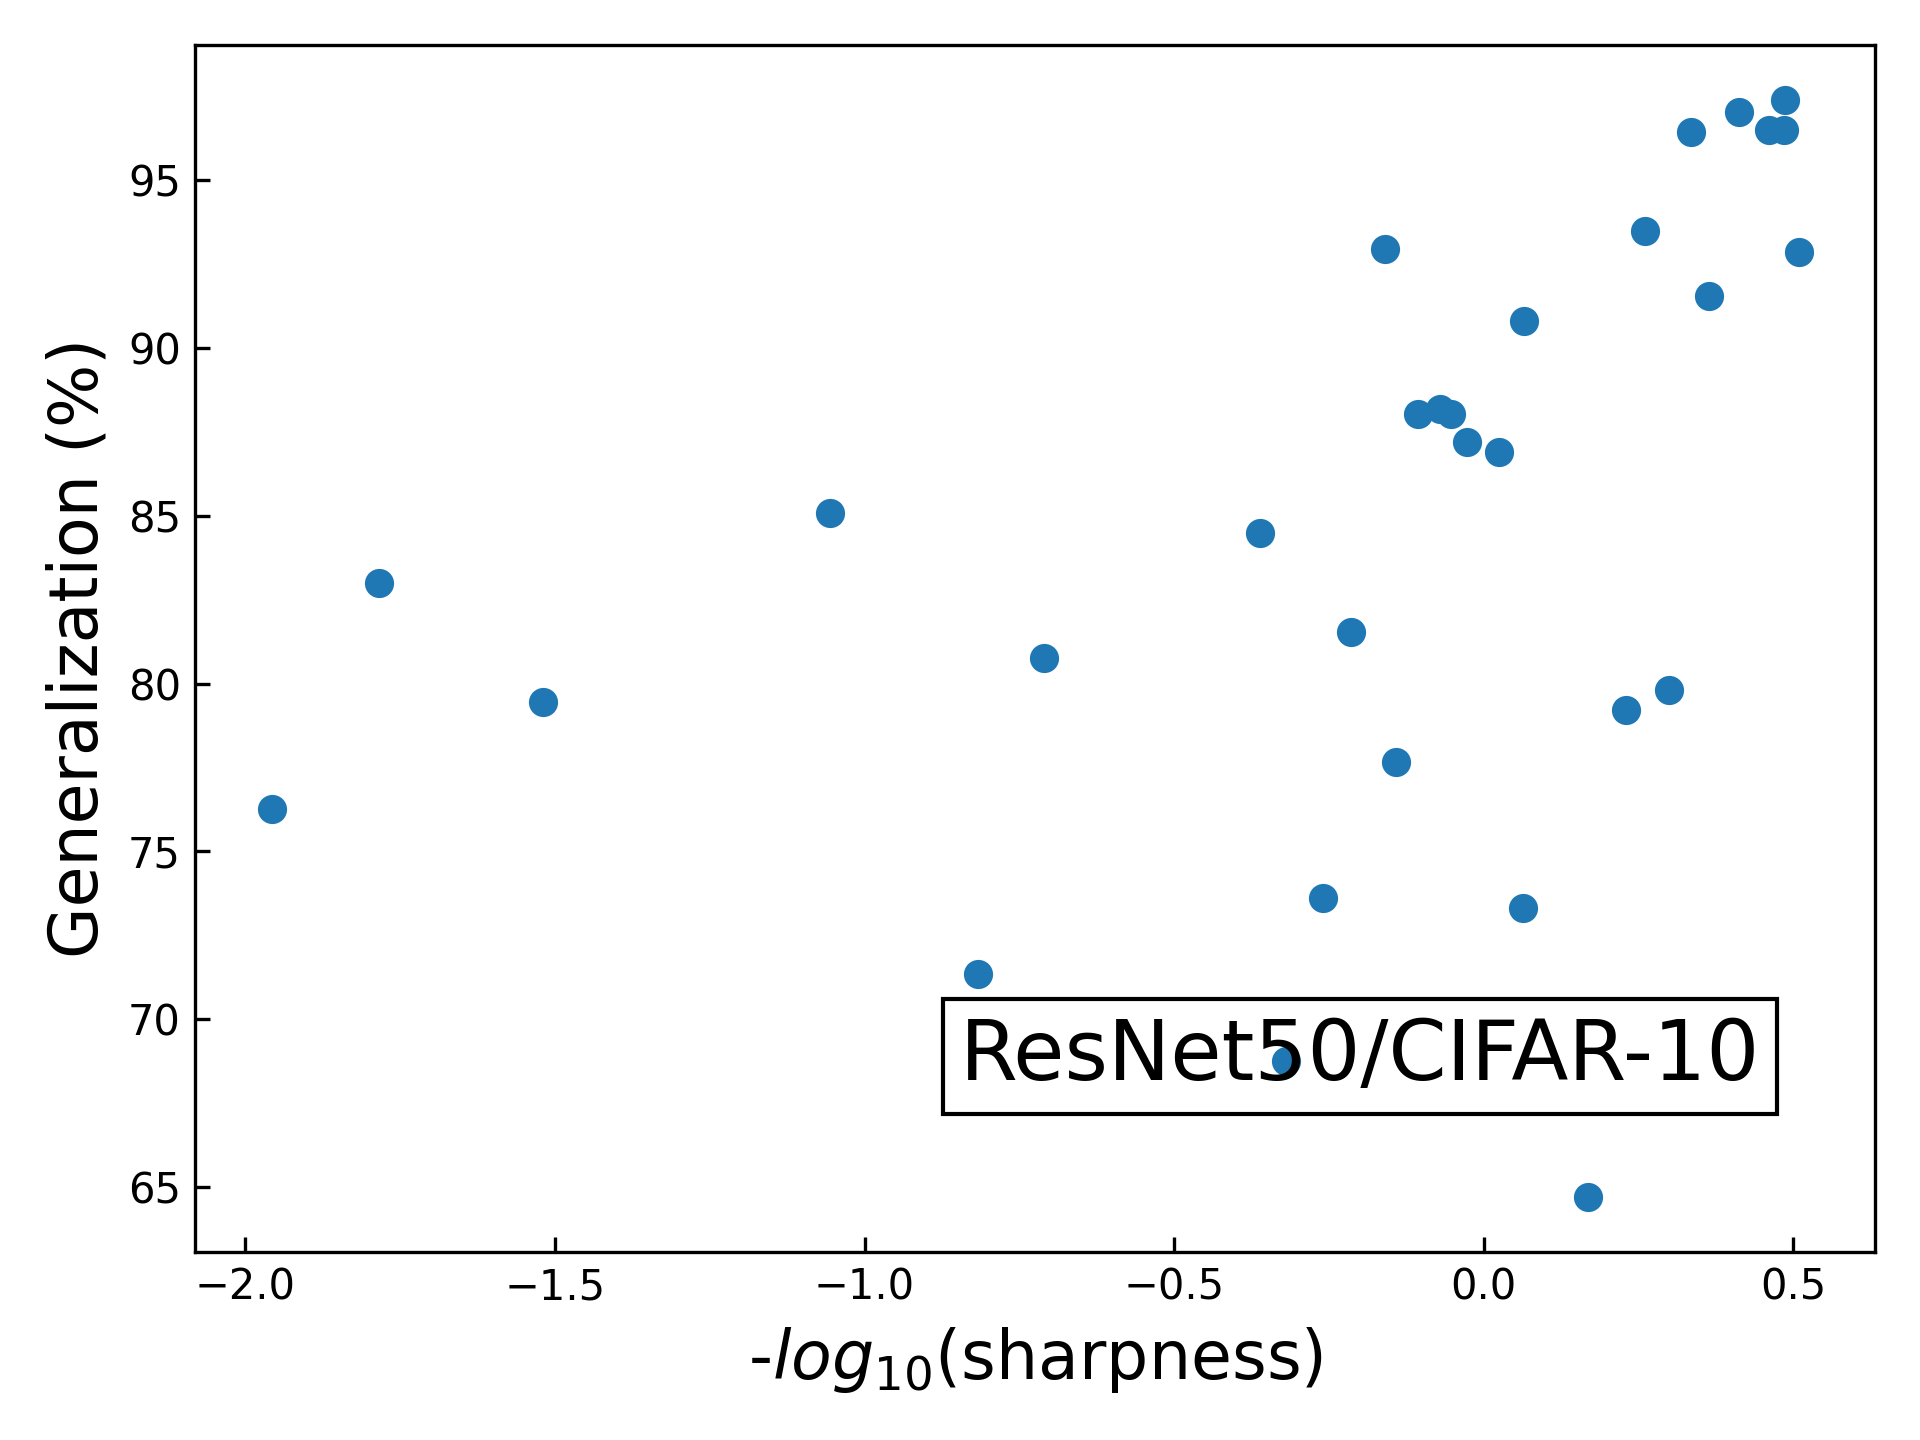
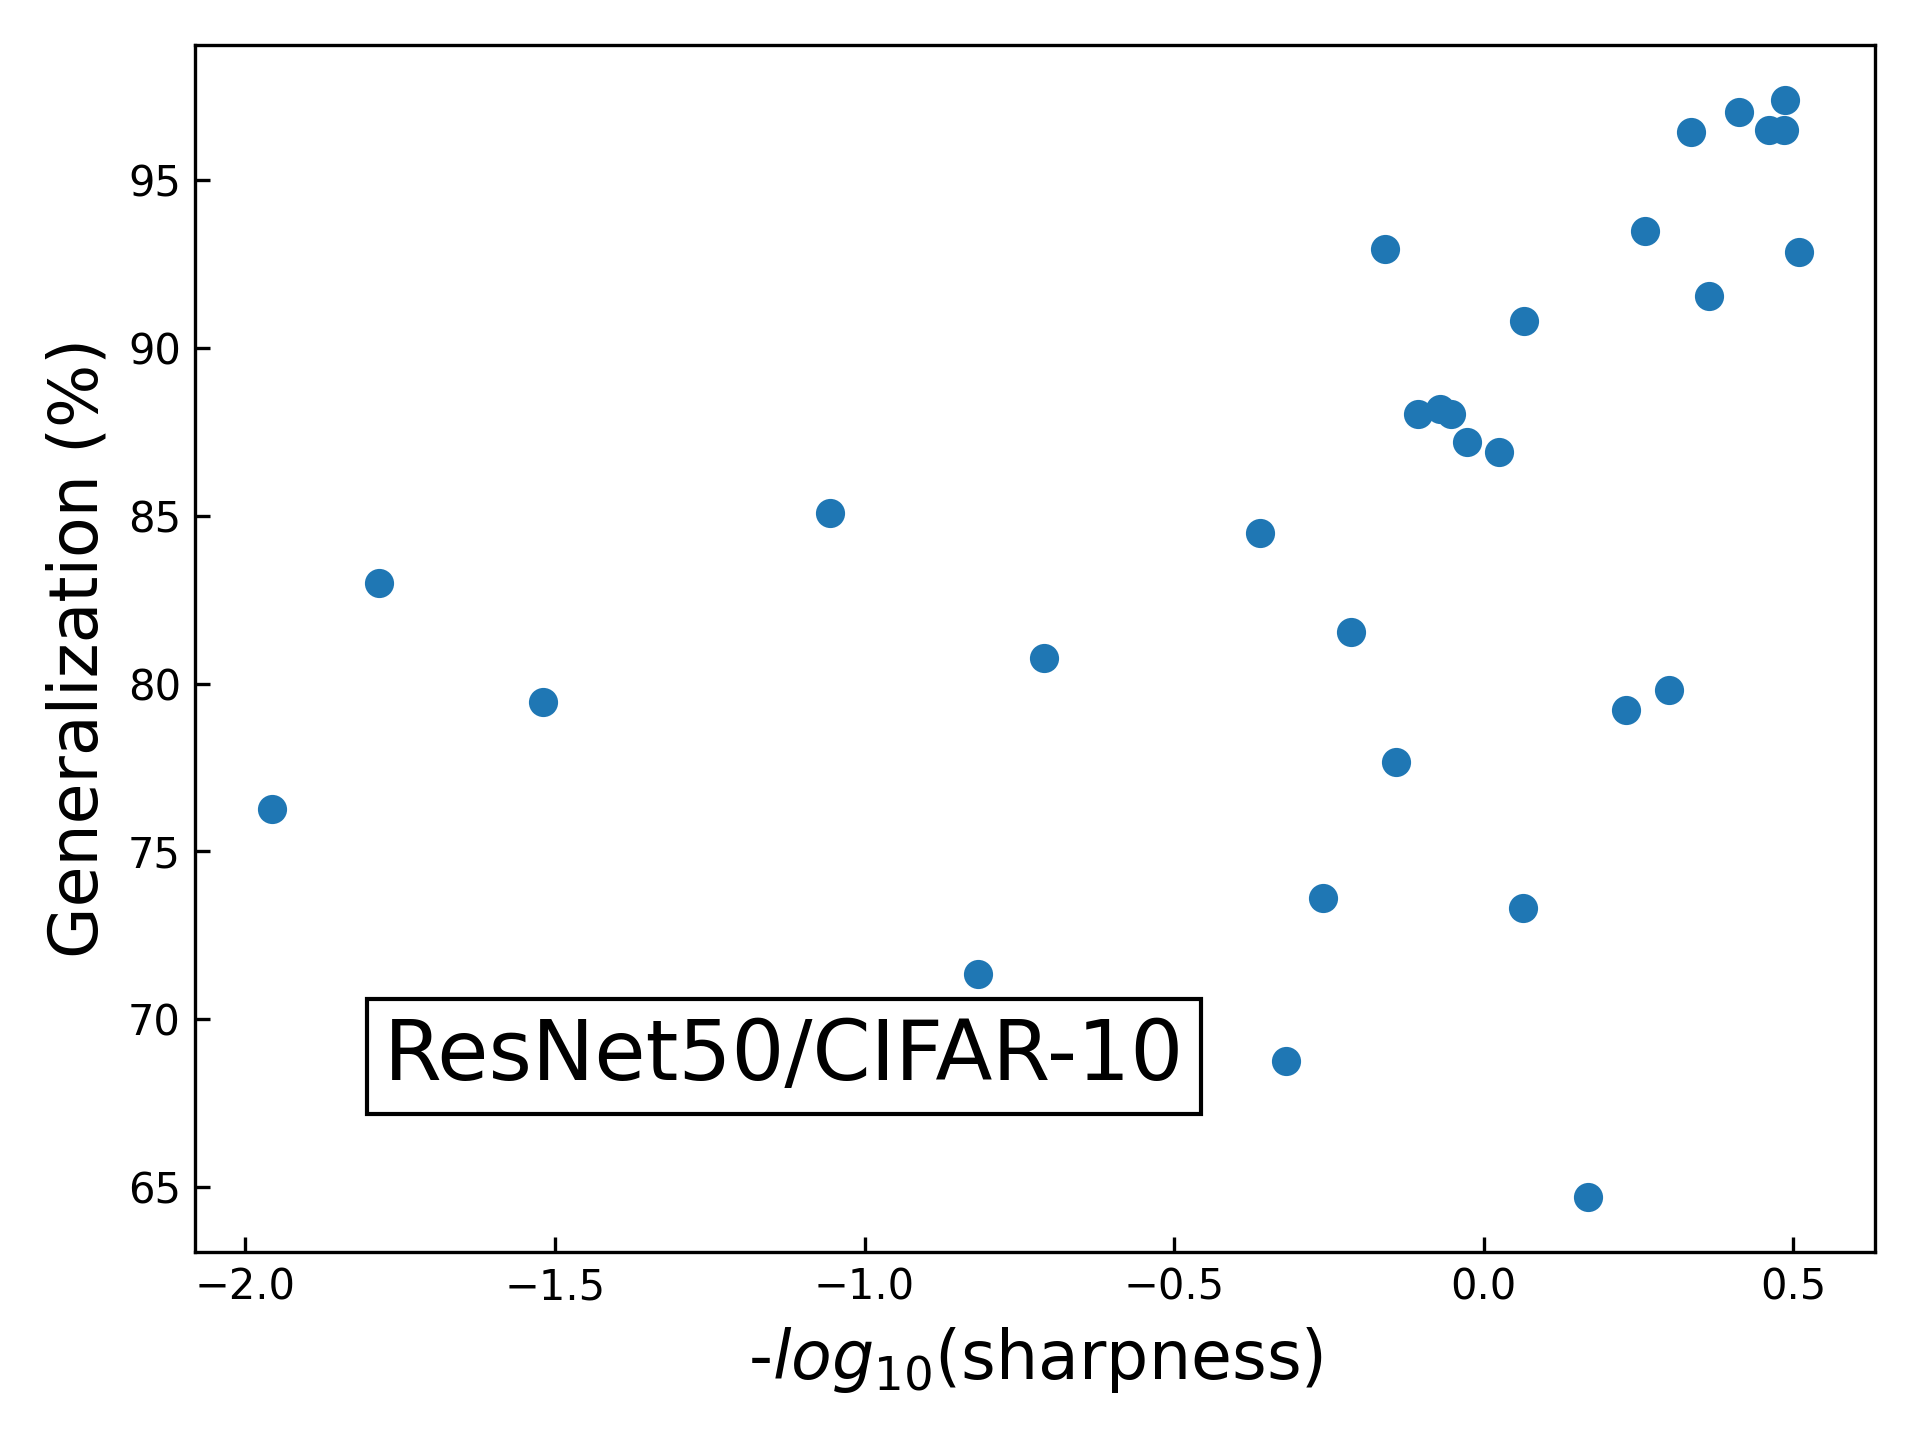
update pics

Changed region(s): [[0.1875, 0.6875, 0.9375, 0.7812]]

diff --git a/playground/volume/attack_sets/checkpoints_part_0-2500/collect-plot-log10.py b/playground/volume/attack_sets/checkpoints_part_0-2500/collect-plot-log10.py
@@ -107,7 +107,7 @@ ax.scatter(-sharpness,generalization)
 ax.set_xlabel(r'-$log_{10}$(sharpness)',fontdict={'fontsize': 16, 'fontweight': 'medium'})
 ax.set_ylabel('Generalization (%)',fontdict={'fontsize': 16, 'fontweight': 'medium'})
 ax.tick_params(direction='in')
-fig.text(0.5,0.25,'ResNet50/CIFAR-10', bbox=dict(facecolor='none'), fontsize=20)
+fig.text(0.2,0.25,'ResNet50/CIFAR-10', bbox=dict(facecolor='none'), fontsize=20)
 fig.savefig('sharpness-generalization-resnet50.png', dpi=300)
 plt.clf()
 
